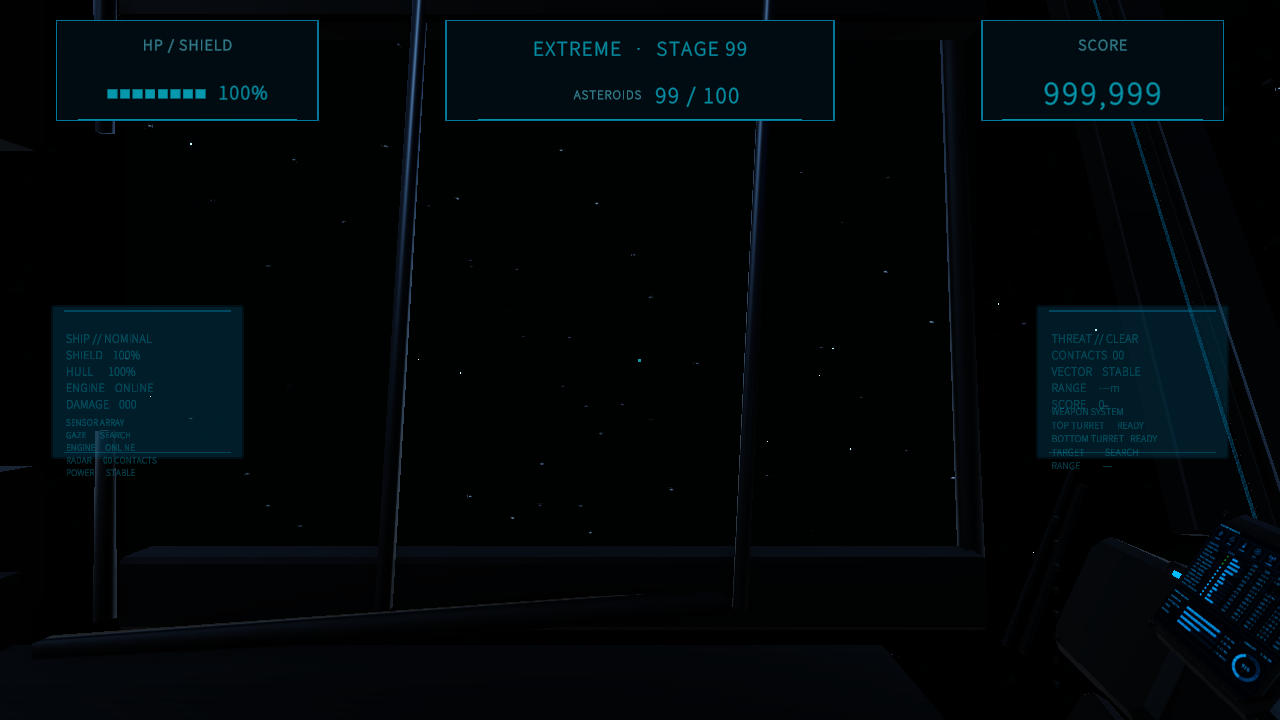
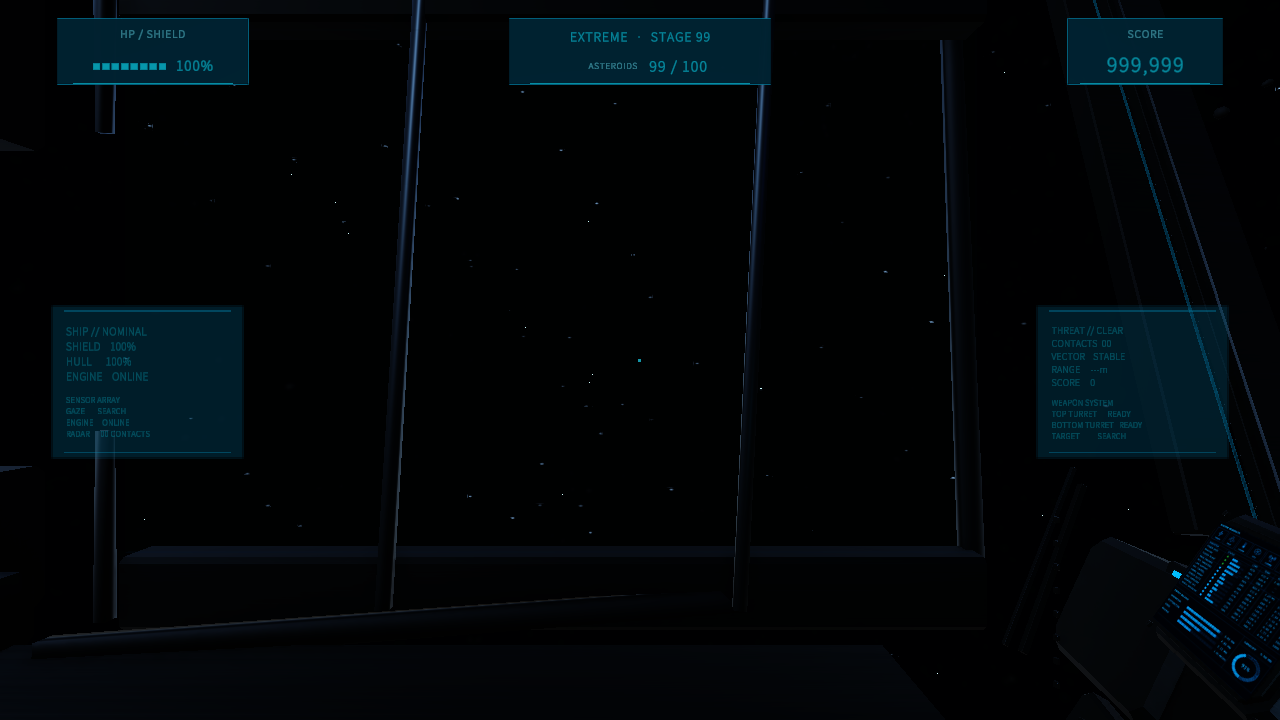
fix: restore compact gameplay HUD visual baseline

diff --git a/MeteorDefenseVR/Assets/_Project/Core/Editor/GameplayHudOverlaySetup.cs b/MeteorDefenseVR/Assets/_Project/Core/Editor/GameplayHudOverlaySetup.cs
@@ -65,40 +65,40 @@ namespace MeteorDefenseVR.Editor
             Material fontMaterial = GetOrCreateFontOverlayMaterial(font);
 
             RectTransform safe = Rect(root, "GameplaySafeArea");
-            Stretch(safe, new Vector2(86f, 54f), new Vector2(-86f, -32f));
+            Stretch(safe, new Vector2(86f, 38f), new Vector2(-86f, -28f));
             RectTransform telemetry = Rect(safe, "MainTelemetry");
             Stretch(telemetry, Vector2.zero, Vector2.zero);
 
             RectTransform left = Panel(telemetry, "HealthPanel", imageMaterial);
-            Place(left, new Vector2(0f, 1f), new Vector2(0f, 1f), Vector2.zero, new Vector2(390f, 148f));
-            Text(left, "HealthLabel", "HP / SHIELD", font, fontMaterial, 22f,
-                new Vector2(.5f, 1f), new Vector2(0f, -14f), new Vector2(350f, 40f), new Color32(153, 226, 235, 255));
-            TextMeshProUGUI health = Text(left, "HealthValue", "■■■■■■■■  100%", font, fontMaterial, 28f,
-                new Vector2(.5f, 0f), new Vector2(0f, 4f), new Vector2(354f, 78f), new Color32(47, 231, 246, 255));
+            Place(left, new Vector2(0f, 1f), new Vector2(0f, 1f), Vector2.zero, new Vector2(286f, 98f));
+            Text(left, "HealthLabel", "HP / SHIELD", font, fontMaterial, 16f,
+                new Vector2(.5f, 1f), new Vector2(0f, -8f), new Vector2(252f, 28f), new Color32(153, 226, 235, 255));
+            TextMeshProUGUI health = Text(left, "HealthValue", "■■■■■■■■  100%", font, fontMaterial, 21f,
+                new Vector2(.5f, 0f), new Vector2(0f, 5f), new Vector2(256f, 48f), new Color32(47, 231, 246, 255));
 
             RectTransform center = Panel(telemetry, "StagePanel", imageMaterial);
-            Place(center, new Vector2(.5f, 1f), new Vector2(.5f, 1f), Vector2.zero, new Vector2(580f, 148f));
-            TextMeshProUGUI stage = Text(center, "DifficultyStageValue", "NORMAL  ·  STAGE 01", font, fontMaterial, 29f,
-                new Vector2(.5f, 1f), new Vector2(0f, -12f), new Vector2(540f, 54f), new Color32(47, 231, 246, 255));
-            TextMeshProUGUI asteroidLabel = Text(center, "AsteroidLabel", "ASTEROIDS", font, fontMaterial, 18f,
-                new Vector2(.5f, 0f), new Vector2(-95f, 4f), new Vector2(210f, 70f), new Color32(153, 226, 235, 255));
+            Place(center, new Vector2(.5f, 1f), new Vector2(.5f, 1f), Vector2.zero, new Vector2(392f, 98f));
+            TextMeshProUGUI stage = Text(center, "DifficultyStageValue", "NORMAL  ·  STAGE 01", font, fontMaterial, 19f,
+                new Vector2(.5f, 1f), new Vector2(0f, -7f), new Vector2(356f, 38f), new Color32(47, 231, 246, 255));
+            TextMeshProUGUI asteroidLabel = Text(center, "AsteroidLabel", "ASTEROIDS", font, fontMaterial, 13f,
+                new Vector2(.5f, 0f), new Vector2(-65f, 4f), new Vector2(138f, 48f), new Color32(153, 226, 235, 255));
             asteroidLabel.alignment = TextAlignmentOptions.Right;
-            TextMeshProUGUI asteroids = Text(center, "AsteroidValue", "18 / 21", font, fontMaterial, 32f,
-                new Vector2(.5f, 0f), new Vector2(125f, 4f), new Vector2(220f, 70f), new Color32(47, 231, 246, 255));
+            TextMeshProUGUI asteroids = Text(center, "AsteroidValue", "18 / 21", font, fontMaterial, 22f,
+                new Vector2(.5f, 0f), new Vector2(82f, 4f), new Vector2(152f, 48f), new Color32(47, 231, 246, 255));
             asteroids.alignment = TextAlignmentOptions.Left;
 
             RectTransform right = Panel(telemetry, "ScorePanel", imageMaterial);
-            Place(right, new Vector2(1f, 1f), new Vector2(1f, 1f), Vector2.zero, new Vector2(360f, 148f));
-            Text(right, "ScoreLabel", "SCORE", font, fontMaterial, 22f,
-                new Vector2(.5f, 1f), new Vector2(0f, -14f), new Vector2(320f, 40f), new Color32(153, 226, 235, 255));
-            TextMeshProUGUI score = Text(right, "ScoreValue", "999,999", font, fontMaterial, 46f,
-                new Vector2(.5f, 0f), new Vector2(0f, 4f), new Vector2(324f, 78f), new Color32(47, 231, 246, 255));
+            Place(right, new Vector2(1f, 1f), new Vector2(1f, 1f), Vector2.zero, new Vector2(232f, 98f));
+            Text(right, "ScoreLabel", "SCORE", font, fontMaterial, 16f,
+                new Vector2(.5f, 1f), new Vector2(0f, -8f), new Vector2(202f, 28f), new Color32(153, 226, 235, 255));
+            TextMeshProUGUI score = Text(right, "ScoreValue", "999,999", font, fontMaterial, 30f,
+                new Vector2(.5f, 0f), new Vector2(0f, 5f), new Vector2(206f, 52f), new Color32(47, 231, 246, 255));
             score.characterSpacing = 1f;
 
             RectTransform feedbackPanel = Panel(safe, "SystemMessagePanel", imageMaterial);
-            Place(feedbackPanel, new Vector2(.5f, .69f), new Vector2(.5f, .5f), Vector2.zero, new Vector2(900f, 160f));
-            TextMeshProUGUI feedback = Text(feedbackPanel, "SystemMessageValue", string.Empty, font, fontMaterial, 38f,
-                Vector2.one * .5f, Vector2.zero, new Vector2(850f, 132f), new Color32(47, 231, 246, 255));
+            Place(feedbackPanel, new Vector2(.5f, .78f), new Vector2(.5f, .5f), Vector2.zero, new Vector2(620f, 108f));
+            TextMeshProUGUI feedback = Text(feedbackPanel, "SystemMessageValue", string.Empty, font, fontMaterial, 25f,
+                Vector2.one * .5f, Vector2.zero, new Vector2(574f, 82f), new Color32(47, 231, 246, 255));
             feedback.textWrappingMode = TextWrappingModes.Normal;
             feedback.overflowMode = TextOverflowModes.Truncate;
             feedbackPanel.gameObject.SetActive(false);
@@ -145,19 +145,19 @@ namespace MeteorDefenseVR.Editor
         {
             RectTransform rect = Rect(parent, name);
             UnityEngine.UI.Image image = Get<UnityEngine.UI.Image>(rect.gameObject);
-            image.color = new Color(.006f, .035f, .052f, .92f);
+            image.color = new Color(.006f, .025f, .038f, .72f);
             image.material = material;
             image.raycastTarget = false;
             UnityEngine.UI.Outline outline = Get<UnityEngine.UI.Outline>(rect.gameObject);
-            outline.effectColor = new Color(.035f, .78f, .9f, .9f);
-            outline.effectDistance = new Vector2(2f, -2f);
+            outline.effectColor = new Color(.08f, .72f, .82f, .82f);
+            outline.effectDistance = new Vector2(1f, -1f);
             outline.useGraphicAlpha = true;
             RectTransform line = Rect(rect, "AccentLine");
             line.anchorMin = new Vector2(.08f, 0f);
             line.anchorMax = new Vector2(.92f, 0f);
             line.pivot = new Vector2(.5f, 0f);
             line.offsetMin = new Vector2(0f, 0f);
-            line.offsetMax = new Vector2(0f, 2f);
+            line.offsetMax = new Vector2(0f, 1f);
             UnityEngine.UI.Image lineImage = Get<UnityEngine.UI.Image>(line.gameObject);
             lineImage.color = new Color32(47, 231, 246, 220);
             lineImage.material = material;

diff --git a/MeteorDefenseVR/Assets/_Project/Core/Tests/GameplayHudOverlayTests.cs b/MeteorDefenseVR/Assets/_Project/Core/Tests/GameplayHudOverlayTests.cs
@@ -153,6 +153,24 @@ namespace MeteorDefenseVR.Tests
         }
 
         [Test]
+        public void RestoredTopCardsStayCompactAndVisuallyConsistent()
+        {
+            GameplayHudOverlayView view = Object.FindAnyObjectByType<GameplayHudOverlayView>(FindObjectsInactive.Include);
+            foreach (string name in new[] { "HealthPanel", "StagePanel", "ScorePanel" })
+            {
+                RectTransform panel = (RectTransform)view.TelemetryRoot.transform.Find(name);
+                Assert.That(panel.sizeDelta.y / 1080f, Is.LessThanOrEqualTo(.10f), name + " height");
+                UnityEngine.UI.Image image = panel.GetComponent<UnityEngine.UI.Image>();
+                Assert.That(image.color.a, Is.InRange(.65f, .78f), name + " background alpha");
+                UnityEngine.UI.Outline outline = panel.GetComponent<UnityEngine.UI.Outline>();
+                Assert.That(outline.effectDistance.magnitude, Is.LessThanOrEqualTo(1.5f), name + " border thickness");
+            }
+            Assert.That(((RectTransform)view.TelemetryRoot.transform.Find("HealthPanel")).sizeDelta.x, Is.LessThan(320f));
+            Assert.That(((RectTransform)view.TelemetryRoot.transform.Find("StagePanel")).sizeDelta.x, Is.LessThan(420f));
+            Assert.That(((RectTransform)view.TelemetryRoot.transform.Find("ScorePanel")).sizeDelta.x, Is.LessThan(260f));
+        }
+
+        [Test]
         public void LaunchAndMissionCompleteMessagesUseTheSameAlwaysOnTopCanvas()
         {
             GameplayHudOverlayView view = Object.FindAnyObjectByType<GameplayHudOverlayView>(FindObjectsInactive.Include);
